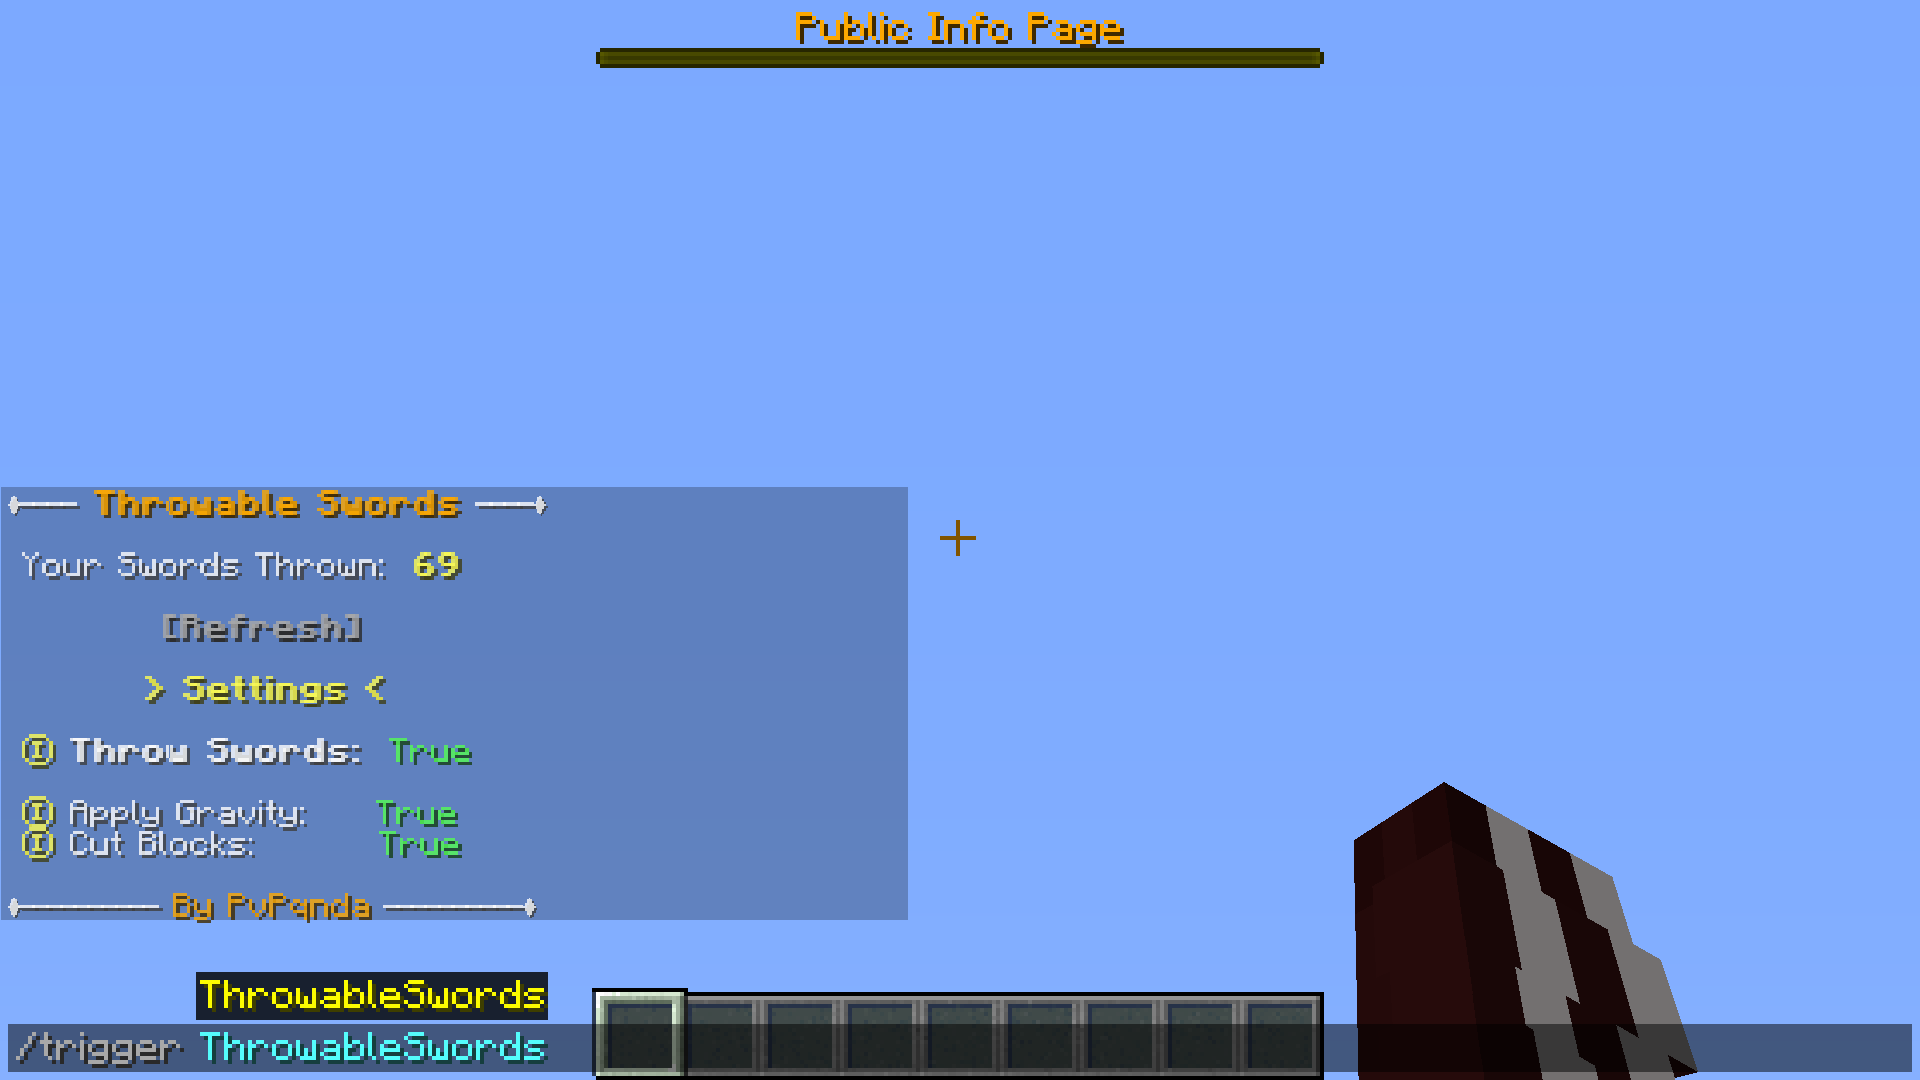
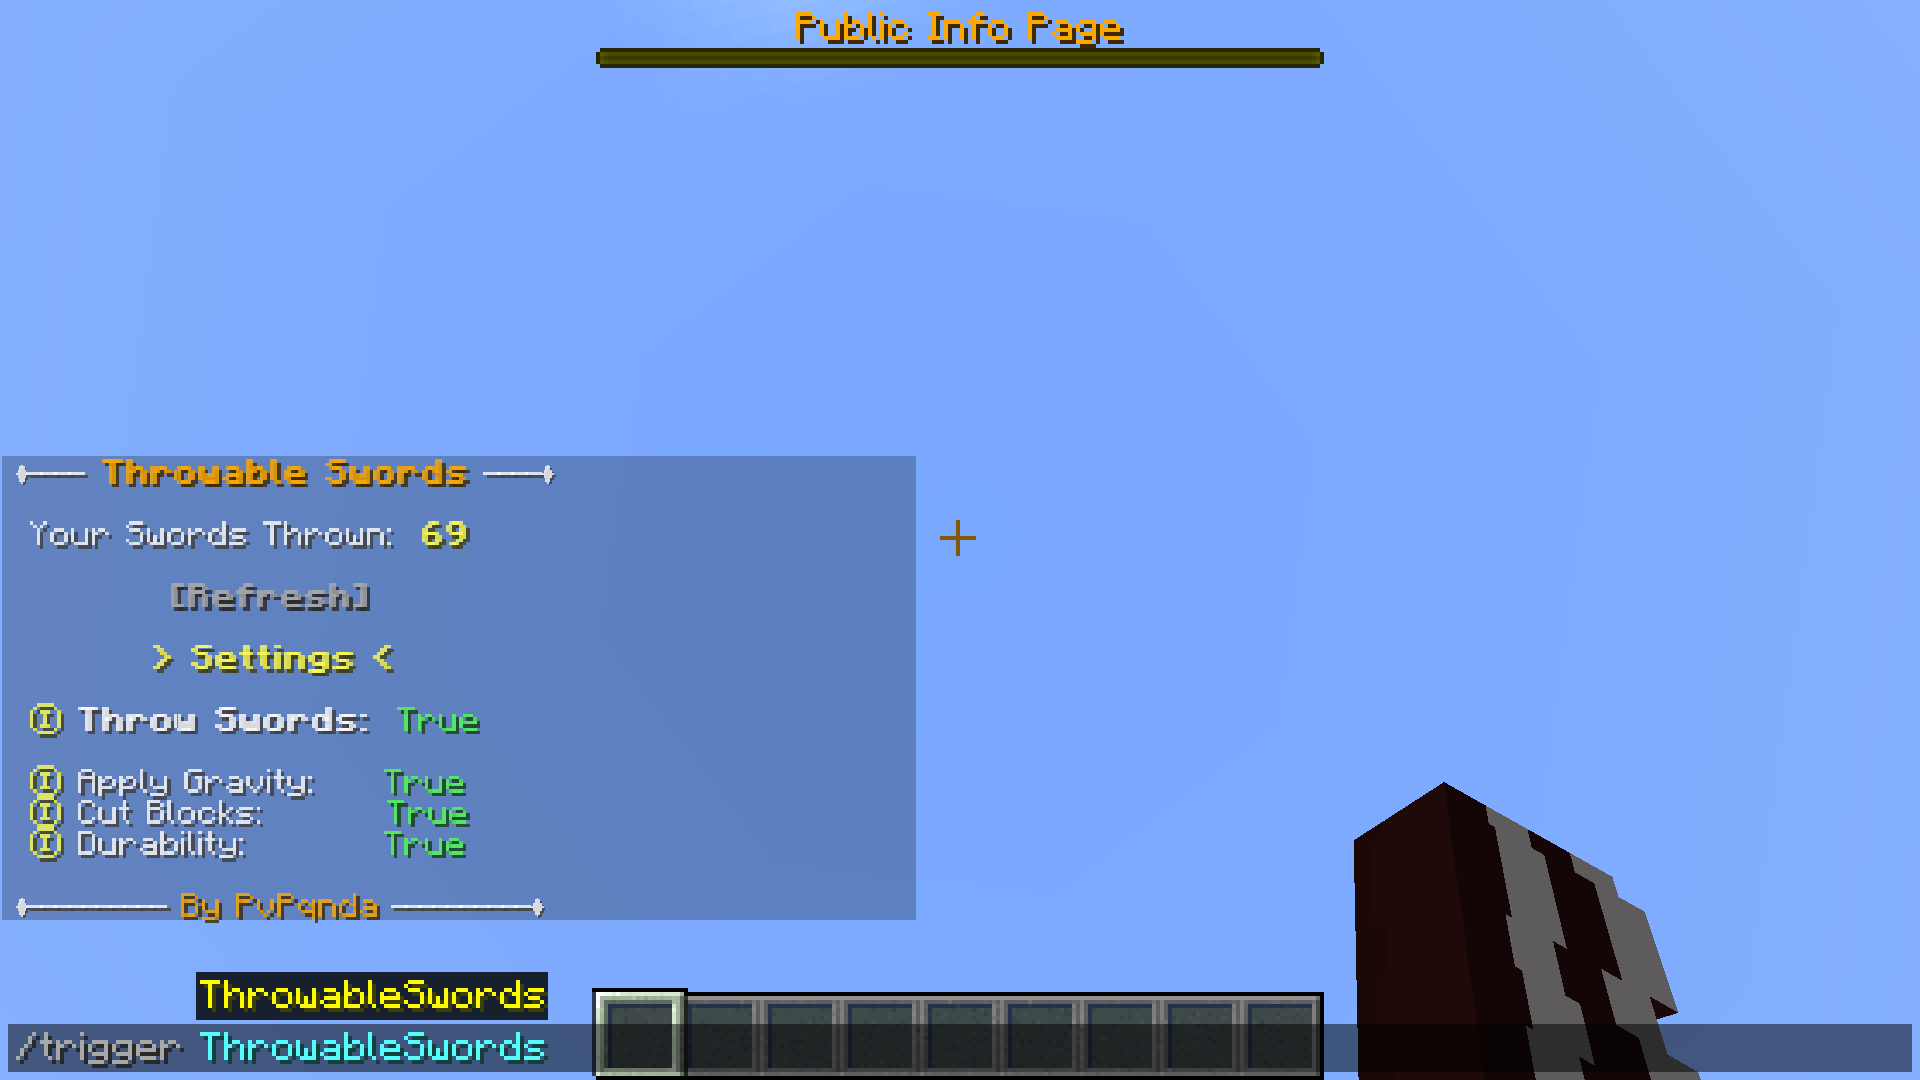
updated datapack throwable swords to v1.1.0

diff --git a/_posts/0000-00-00-throwable-swords.md b/_posts/0000-00-00-throwable-swords.md
@@ -2,15 +2,15 @@
 layout: datapack
 title: "Throwable Swords"
 permalink: /datapacks/throwable-swords
-date: 2021-04-16
+date: 2021-06-13
 short-description: "Want to be able to throw your swords like tridents? Now you can."
 trailer: "https://youtu.be/UobKdnHP96Q"
-version: 1.0.0
+version: 1.1.0
 download: "/downloads/datapacks/Throwable Swords.zip"
 ---
 Created by: PvPqnda
 -
-*For Minecraft 1.15 - 1.16*
+*For Minecraft 1.15+*
 
 **Datapack Features:**
 
@@ -22,7 +22,9 @@ Created by: PvPqnda
 
 - Thrown swords enchanted with fire aspect will still respectively catch whatever mob it hits on fire!
 
-- There are 4 customizable settings to access using the command:<br>
+- Thrown swords will still lose durability upon landing!
+
+- There are 5 customizable settings to access using the command:<br>
 "/function throwableswords:admin_info"<br>
 *(only players with operator permissions can access this page)*
 
@@ -30,3 +32,13 @@ Created by: PvPqnda
 *(can be enabled/disabled in the admin info page)*
 
 *Survival & Multiplayer friendly*
+<hr>
+**Changelog:**
+
+**v1.1.0** - *June 13, 2021*
+
+- Added 1.17 support and added some of the new 1.17 blocks to the blocks that can be cut by thrown swords (Pointed Dripstone, Amethyst Buds/Clusters, Dripleaves, Azalea, Glow Lichen, Cave Vines, and Hanging Roots)
+- Scaffolding and leaves are now also able to be cut by thrown swords
+- Only one glass can be broken per sword thrown; same goes for the addition of leaves and pointed dripstone
+- Lit candles can be put out if a sword is thrown past them
+- Added a setting for a new function that damages thrown swords when they land, removing 1 durability from the sword, potentially breaking the sword if it already has 1 durability remaining
